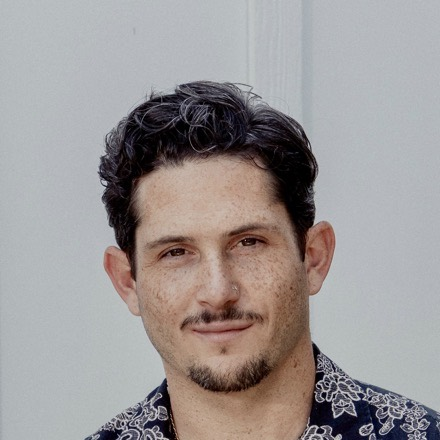
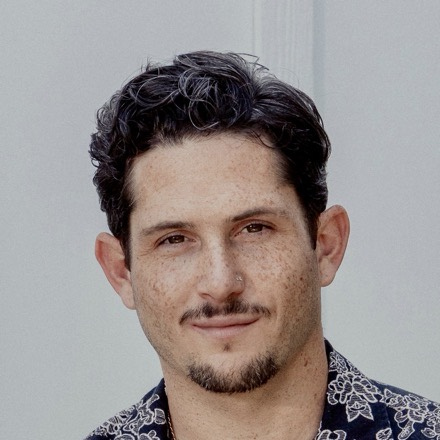
About: recrop the headshot, less background above the head
The first crop left the head sitting low in the circle with a visible band
of background above it. Shifted the crop down and tightened it, so the
head now fills the frame with a small top margin that the circular mask
trims rather than leaving as empty grey.

A tighter crop was tried and rejected: the circular mask touches the frame
at top-centre, so hair against the top edge gets clipped.

The exact sips invocation is now recorded in the builder, since this was a
hand-tuned crop and would otherwise be unreproducible.

Claude-Session: https://claude.ai/code/session_013ejbHgb52MG6Bg3z2j54As

diff --git a/scripts/build-about.js b/scripts/build-about.js
@@ -20,6 +20,13 @@
 // public/img/author.jpg — the page renders it only if the file exists, so it
 // costs nothing to leave absent.
 //
+// The headshot at public/img/author.jpg was produced from the original with:
+//   sips -c 1500 1500 --cropOffset 430 225 <original> --out author.jpg
+//   sips -Z 440 author.jpg && sips -s formatOptions 72 author.jpg --out author.jpg
+// The offset matters: a center crop clips the top of the head on a portrait
+// original, and too tight a top margin gets clipped again by the circular mask,
+// which touches the frame at top-centre. 2.4MB to 43KB.
+//
 // Re-run:  node scripts/build-about.js
 
 const fs = require('fs');
